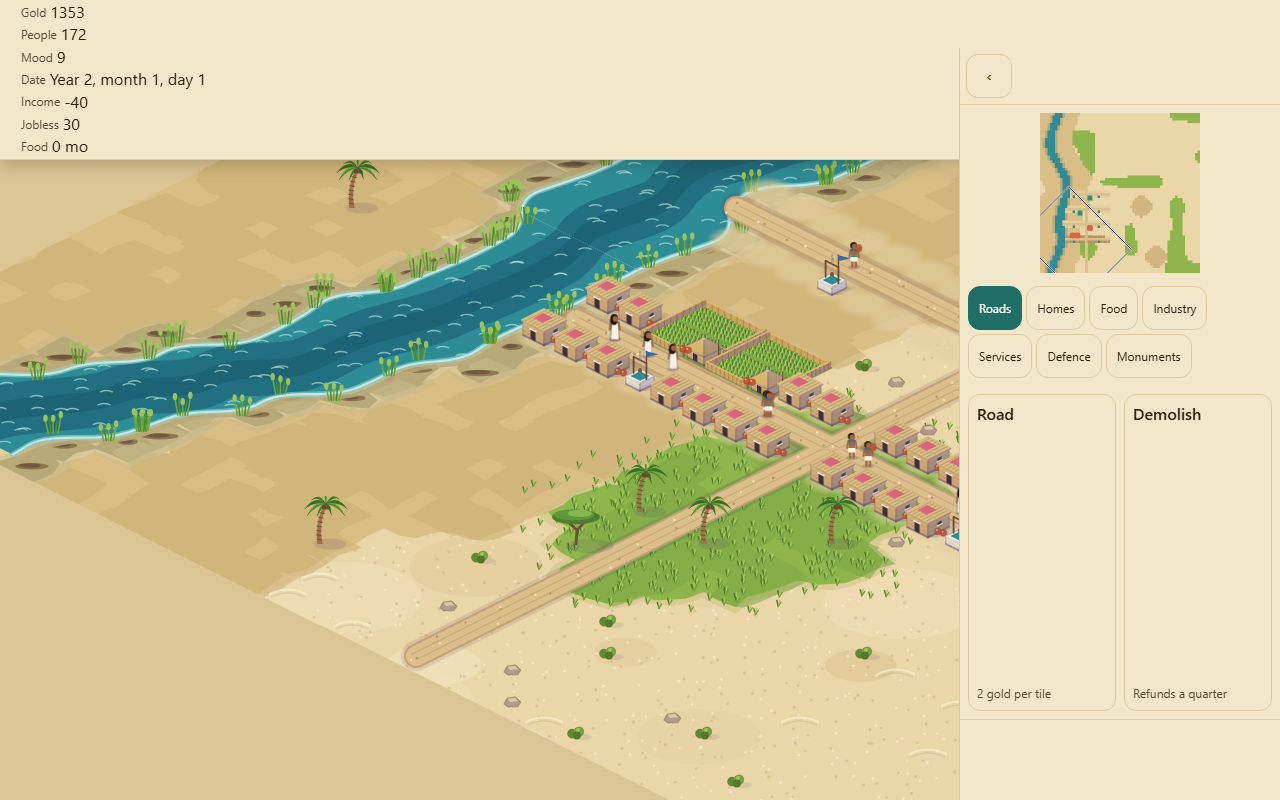
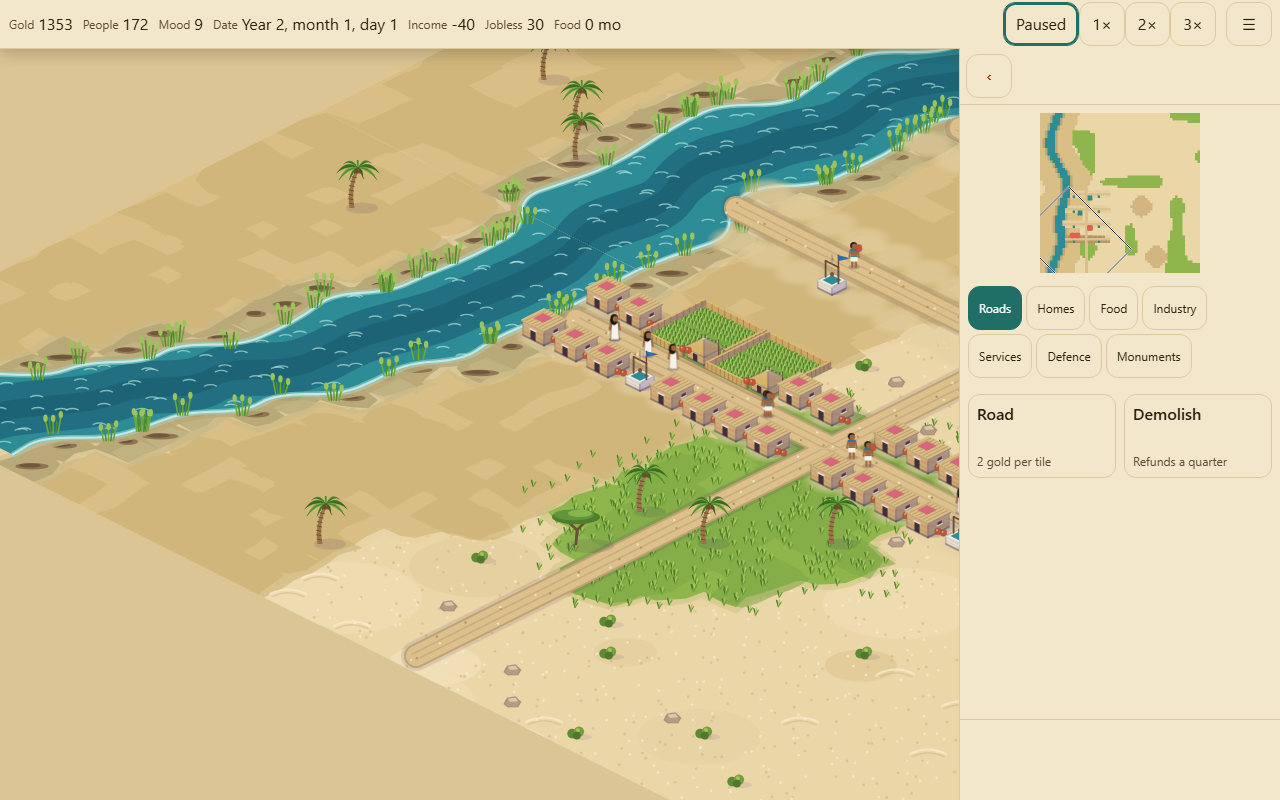
Lay the top bar out in a row, hide wide-only items on phones, and let panel cards keep their height

diff --git a/css/ui.css b/css/ui.css
@@ -49,11 +49,12 @@ h2, h3 { margin: 0; }
 /* Top bar: things you read sit at the top. */
 #topbar { position: fixed; top: 0; left: 0; right: 0; padding: var(--safe-top) max(8px, var(--safe-right)) 0 max(8px, var(--safe-left)); min-height: var(--topbar-h); background: var(--parchment); border-bottom: 1px solid var(--parchment-3); box-shadow: var(--shadow); display: flex; align-items: center; gap: 10px; }
 #topbar .stat { display: flex; align-items: center; gap: 4px; white-space: nowrap; }
+#topbar .stats { display: flex; align-items: center; gap: 10px; flex: 1; min-width: 0; overflow: hidden; padding: 0; min-height: 0; }
 #topbar .stat .label { font-size: calc(12px * var(--ui-scale)); color: var(--ink-soft); }
-#topbar .spacer { flex: 1; }
+#topbar .spacer { flex: 0 0 0; }
 #topbar .speed { display: flex; gap: 4px; }
 #topbar button { min-height: var(--tap); }
-body[data-layout="portrait"] .wide-only, body[data-layout="compact"] .wide-only { display: none; }
+body[data-layout="portrait"] .wide-only, body[data-layout="compact"] .wide-only { display: none !important; }
 body[data-layout="compact"] { --topbar-h: calc(40px * var(--ui-scale)); }
 
 /* Critical banner and overlay legend, under the top bar. The banner wins; the legend shrinks to its icon. */
@@ -97,7 +98,7 @@ body[data-hand="left"] #corners { flex-direction: row-reverse; }
 .card .cost { font-size: calc(12px * var(--ui-scale)); color: var(--ink-soft); }
 .card.unaffordable .cost { color: var(--coral-text); }
 .card.locked { opacity: 0.75; }
-.cards.grid { display: grid; grid-template-columns: repeat(2, 1fr); gap: 8px; padding: 8px; }
+.cards.grid { display: grid; grid-template-columns: repeat(2, 1fr); gap: 8px; padding: 8px; grid-auto-rows: max-content; align-content: start; }
 .cards.grid .card { width: auto; }
 .cards .empty { padding: 12px; color: var(--ink-soft); }
 
